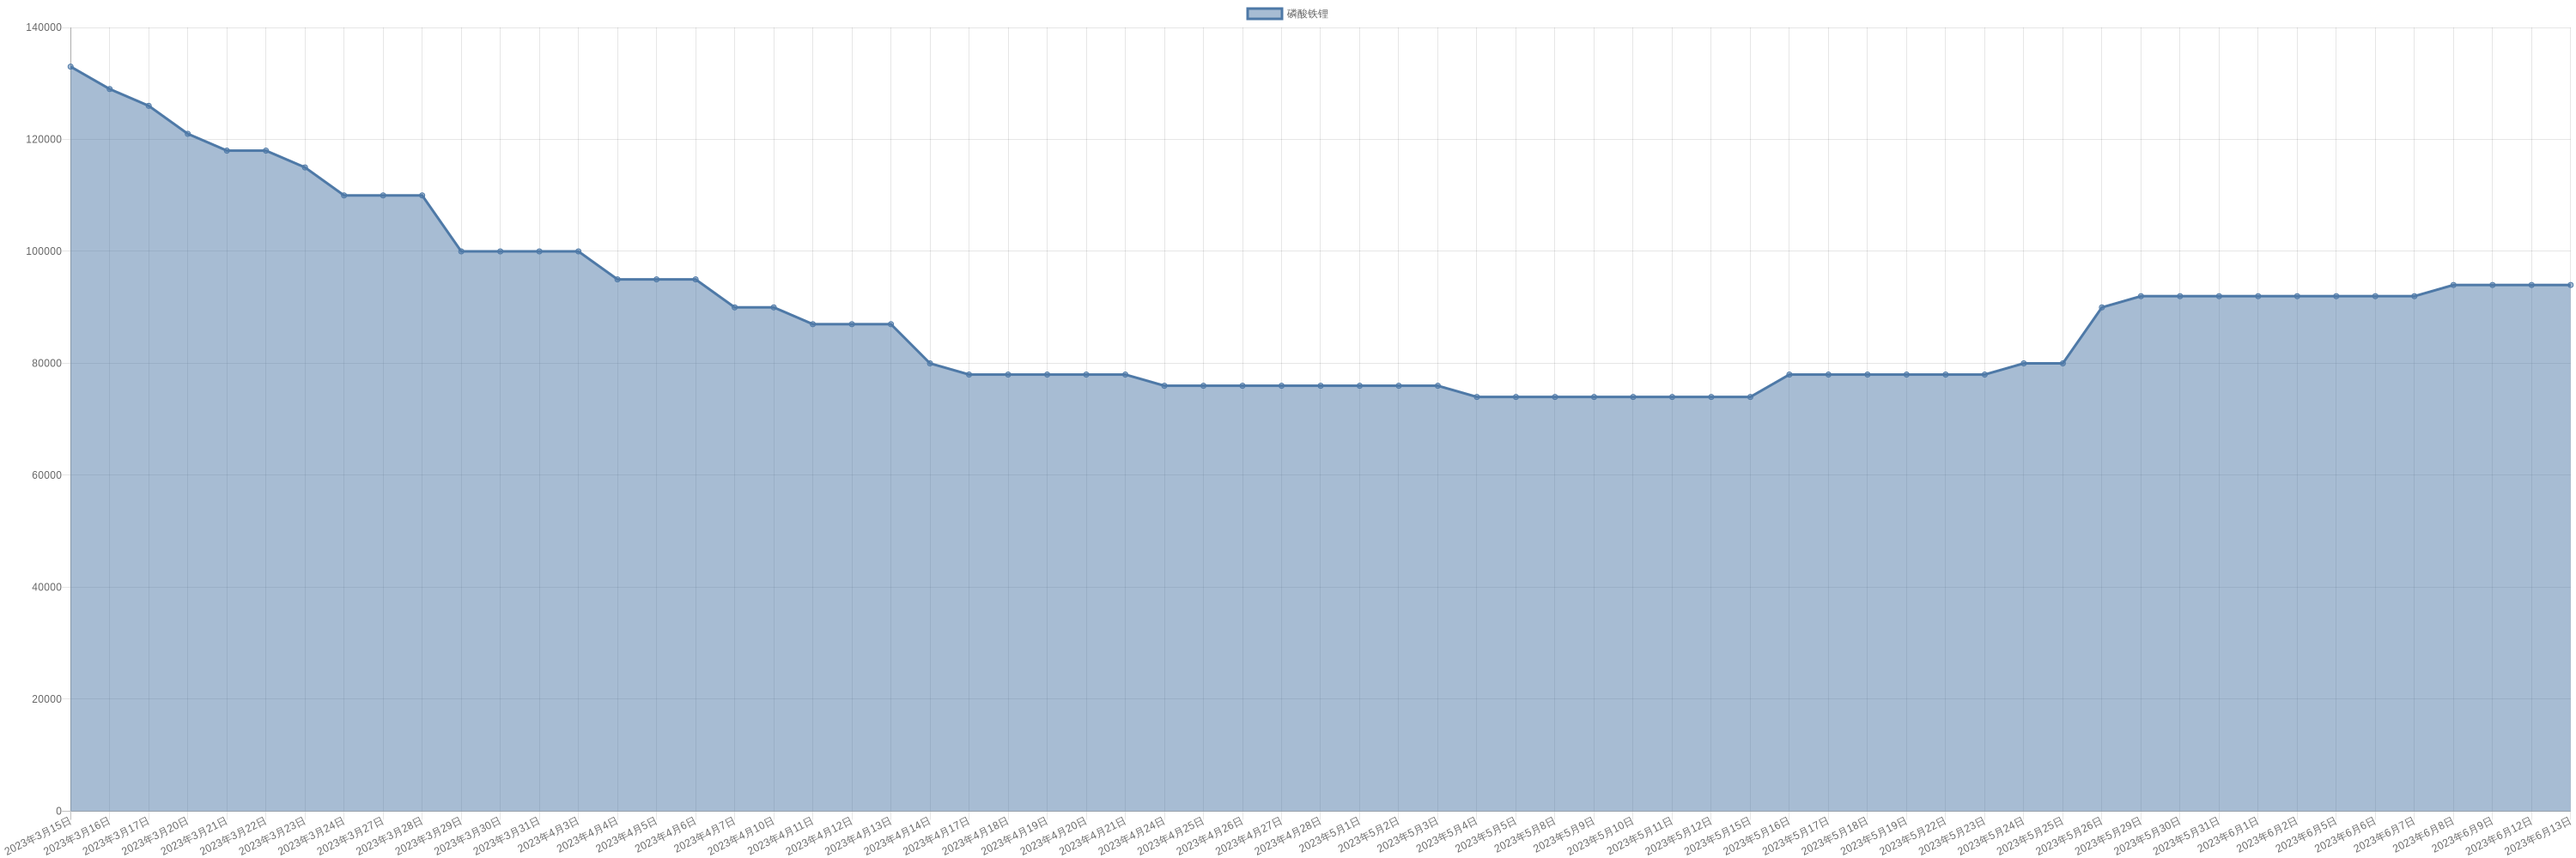
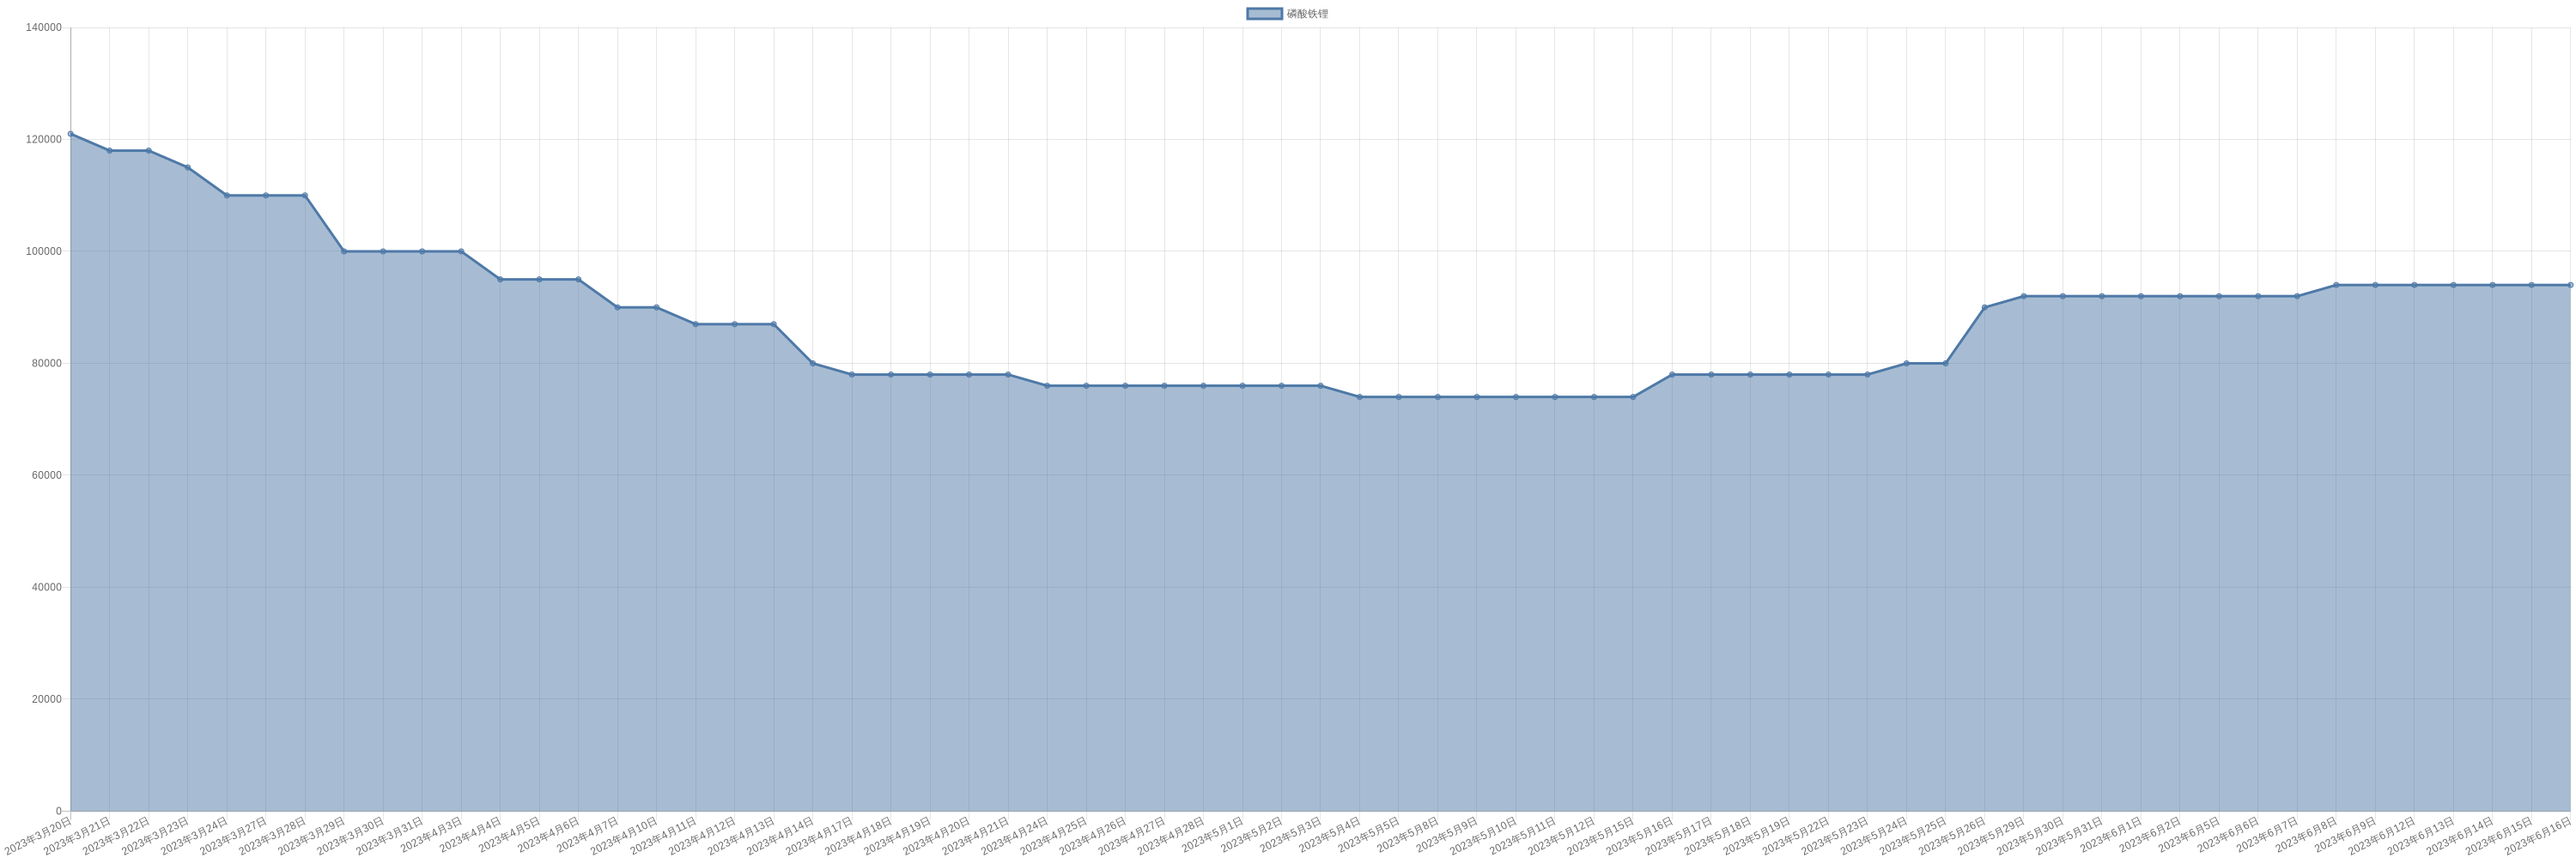
chore: sync commodity monitor

diff --git a/markdown/commodity/crudeOil.md b/markdown/commodity/crudeOil.md
@@ -2,6 +2,12 @@
 
 | 时间 | 价格 | 消息正文 |
 |:--:|:--:|:--:|
+|2023年6月16日WTI|70.62|6月16日WTI原油为70.62|
+|2023年6月16日Brent|75.67|6月16日Brent原油为75.67|
+|2023年6月15日WTI|68.27|6月15日WTI原油为68.27|
+|2023年6月15日Brent|73.2|6月15日Brent原油为73.20|
+|2023年6月14日WTI|69.42|6月14日WTI原油为69.42|
+|2023年6月14日Brent|74.29|6月14日Brent原油为74.29|
 |2023年6月13日WTI|67.12|6月13日WTI原油为67.12|
 |2023年6月13日Brent|71.84|6月13日Brent原油为71.84|
 |2023年6月12日WTI|70.17|6月12日WTI原油为70.17|

diff --git a/markdown/commodity/praseodymiumNeodymiumOxide.md b/markdown/commodity/praseodymiumNeodymiumOxide.md
@@ -8,6 +8,9 @@
 
 | 时间 | 价格 | 消息正文 |
 |:--:|:--:|:--:|
+|2023年6月16日|497500|6月16日镨钕氧化物为497500.00|
+|2023年6月15日|502500|6月15日镨钕氧化物为502500.00|
+|2023年6月14日|502500|6月14日镨钕氧化物为502500.00|
 |2023年6月13日|502500|6月13日镨钕氧化物为502500.00|
 |2023年6月12日|502500|6月12日镨钕氧化物为502500.00|
 |2023年6月9日|500000|6月9日镨钕氧化物为500000.00|

diff --git a/markdown/commodity/dyFeAlloy.md b/markdown/commodity/dyFeAlloy.md
@@ -8,6 +8,9 @@
 
 | 时间 | 价格 | 消息正文 |
 |:--:|:--:|:--:|
+|2023年6月16日|2080000|6月16日镝铁合金为2080000.00|
+|2023年6月15日|2090000|6月15日镝铁合金为2090000.00|
+|2023年6月14日|2090000|6月14日镝铁合金为2090000.00|
 |2023年6月13日|2090000|6月13日镝铁合金为2090000.00|
 |2023年6月12日|2090000|6月12日镝铁合金为2090000.00|
 |2023年6月9日|2070000|6月9日镝铁合金为2070000.00|

diff --git a/markdown/commodity/lithiumHydroxide.md b/markdown/commodity/lithiumHydroxide.md
@@ -8,6 +8,9 @@
 
 | 时间 | 价格 | 消息正文 |
 |:--:|:--:|:--:|
+|2023年6月16日|332500|6月16日氢氧化锂为332500.00|
+|2023年6月15日|332500|6月15日氢氧化锂为332500.00|
+|2023年6月14日|332500|6月14日氢氧化锂为332500.00|
 |2023年6月13日|332500|6月13日氢氧化锂为332500.00|
 |2023年6月12日|332500|6月12日氢氧化锂为332500.00|
 |2023年6月9日|332500|6月9日氢氧化锂为332500.00|

diff --git a/markdown/commodity/praseodymiumNeodymiumAlloy.md b/markdown/commodity/praseodymiumNeodymiumAlloy.md
@@ -8,6 +8,9 @@
 
 | 时间 | 价格 | 消息正文 |
 |:--:|:--:|:--:|
+|2023年6月16日|605000|6月16日镨钕合金为605000.00|
+|2023年6月15日|607500|6月15日镨钕合金为607500.00|
+|2023年6月14日|607500|6月14日镨钕合金为607500.00|
 |2023年6月13日|605000|6月13日镨钕合金为605000.00|
 |2023年6月12日|605000|6月12日镨钕合金为605000.00|
 |2023年6月9日|602500|6月9日镨钕合金为602500.00|

diff --git a/markdown/commodity/dysprosiumMetal.md b/markdown/commodity/dysprosiumMetal.md
@@ -8,6 +8,9 @@
 
 | 时间 | 价格 | 消息正文 |
 |:--:|:--:|:--:|
+|2023年6月16日|2710000|6月16日金属镝为2710000.00|
+|2023年6月15日|2710000|6月15日金属镝为2710000.00|
+|2023年6月14日|2710000|6月14日金属镝为2710000.00|
 |2023年6月13日|2710000|6月13日金属镝为2710000.00|
 |2023年6月12日|2710000|6月12日金属镝为2710000.00|
 |2023年6月9日|2680000|6月9日金属镝为2680000.00|

diff --git a/markdown/commodity/dysprosiumOxide.md b/markdown/commodity/dysprosiumOxide.md
@@ -8,6 +8,9 @@
 
 | 时间 | 价格 | 消息正文 |
 |:--:|:--:|:--:|
+|2023年6月16日|2140000|6月16日氧化镝为2140000.00|
+|2023年6月15日|2150000|6月15日氧化镝为2150000.00|
+|2023年6月14日|2150000|6月14日氧化镝为2150000.00|
 |2023年6月13日|2150000|6月13日氧化镝为2150000.00|
 |2023年6月12日|2130000|6月12日氧化镝为2130000.00|
 |2023年6月9日|2115000|6月9日氧化镝为2115000.00|

diff --git a/markdown/commodity/liquefiedNaturalGas.md b/markdown/commodity/liquefiedNaturalGas.md
@@ -8,6 +8,9 @@
 
 | 时间 | 价格 | 消息正文 |
 |:--:|:--:|:--:|
+|2023年6月16日|3896|6月16日液化天然气为3896.00|
+|2023年6月15日|3890|6月15日液化天然气为3890.00|
+|2023年6月14日|3874|6月14日液化天然气为3874.00|
 |2023年6月13日|3806|6月13日液化天然气为3806.00|
 |2023年6月12日|3750|6月12日液化天然气为3750.00|
 |2023年6月9日|3588|6月9日液化天然气为3588.00|

diff --git a/markdown/commodity/lithiumIronPhosphate.md b/markdown/commodity/lithiumIronPhosphate.md
@@ -8,6 +8,9 @@
 
 | 时间 | 价格 | 消息正文 |
 |:--:|:--:|:--:|
+|2023年6月16日|94000|6月16日磷酸铁锂为94000.00|
+|2023年6月15日|94000|6月15日磷酸铁锂为94000.00|
+|2023年6月14日|94000|6月14日磷酸铁锂为94000.00|
 |2023年6月13日|94000|6月13日磷酸铁锂为94000.00|
 |2023年6月12日|94000|6月12日磷酸铁锂为94000.00|
 |2023年6月9日|94000|6月9日磷酸铁锂为94000.00|

diff --git a/markdown/commodity/neodymium.md b/markdown/commodity/neodymium.md
@@ -8,6 +8,9 @@
 
 | 时间 | 价格 | 消息正文 |
 |:--:|:--:|:--:|
+|2023年6月16日|640000|6月16日金属钕为640000.00|
+|2023年6月15日|640000|6月15日金属钕为640000.00|
+|2023年6月14日|640000|6月14日金属钕为640000.00|
 |2023年6月13日|635000|6月13日金属钕为635000.00|
 |2023年6月12日|635000|6月12日金属钕为635000.00|
 |2023年6月9日|635000|6月9日金属钕为635000.00|

diff --git a/markdown/commodity/neodymiumOxide.md b/markdown/commodity/neodymiumOxide.md
@@ -8,6 +8,9 @@
 
 | 时间 | 价格 | 消息正文 |
 |:--:|:--:|:--:|
+|2023年6月16日|505000|6月16日氧化钕为505000.00|
+|2023年6月15日|505000|6月15日氧化钕为505000.00|
+|2023年6月14日|505000|6月14日氧化钕为505000.00|
 |2023年6月13日|505000|6月13日氧化钕为505000.00|
 |2023年6月12日|505000|6月12日氧化钕为505000.00|
 |2023年6月9日|505000|6月9日氧化钕为505000.00|

diff --git a/markdown/commodity/praseodymium.md b/markdown/commodity/praseodymium.md
@@ -8,6 +8,9 @@
 
 | 时间 | 价格 | 消息正文 |
 |:--:|:--:|:--:|
+|2023年6月16日|655000|6月16日金属镨为655000.00|
+|2023年6月15日|655000|6月15日金属镨为655000.00|
+|2023年6月14日|655000|6月14日金属镨为655000.00|
 |2023年6月13日|645000|6月13日金属镨为645000.00|
 |2023年6月12日|635000|6月12日金属镨为635000.00|
 |2023年6月9日|635000|6月9日金属镨为635000.00|
